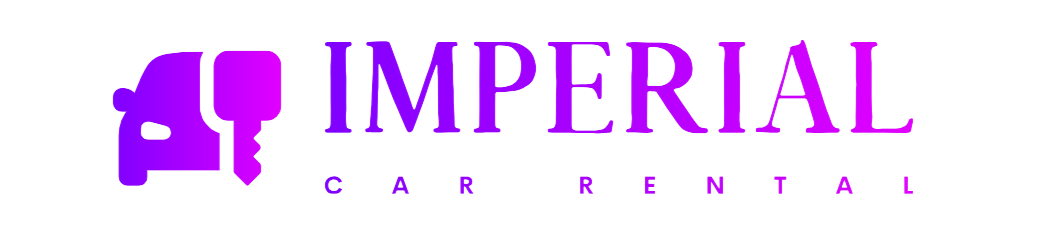
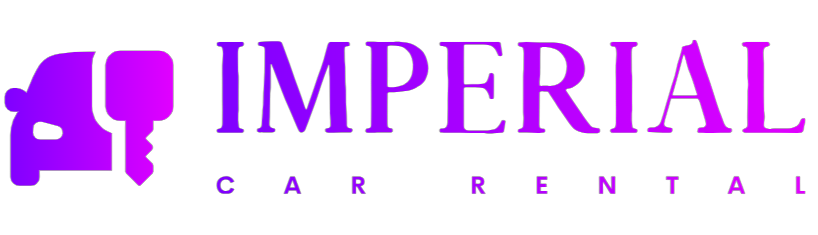
responsive :)

diff --git a/Frontend/css/index.css b/Frontend/css/index.css
@@ -8,43 +8,35 @@ body{
    background-color: #F5F5F5;
    margin: 0;
    font-family: Arial,  sans-serif;
-   box-sizing: border-box;
-
 }
 
 
 .headerContainer{
-    display: flex;
+    display:flex;
     flex-wrap: wrap;
-    justify-content:space-evenly;
     justify-content: space-between;
-   
-    
     align-items: center;
-    background-color: rgb(205, 205, 205);
-    opacity: 0.;
+    padding-left: 1em;
+    padding-right: 1em;
+    
+   
+   
 }
 .logoEmri{
     display: flex;
     flex-direction: row;
     justify-content: flex-start;
-    position: relative;
+  
     
 }
 .headerContainer ul{
     display: flex;
     flex-direction: row;
     justify-content: center;
-    
-
     list-style: none;
-
     font-family: Arial;
     font-size: 13pt;
     color: white;
-
-    position: relative;
-    padding-right: 10em;
     column-gap: 1em;
 
 }
@@ -72,7 +64,7 @@ body{
     justify-content:flex-end;
     color: white;
     position: relative;  
-    padding-right: 1em;
+   
 }
 .backgroundPic {
     width: 100%;
@@ -89,8 +81,9 @@ body{
     flex-wrap: wrap;
     flex-direction: column;
     text-align: center;
-    font-size: 15pt;
+    font-size: 12pt;
     color: rgb(75, 8, 75);
+    padding:1em;
  }
  .sdiqka{
    font-size: 20pt;
@@ -98,8 +91,12 @@ body{
  }
  
  .pjesa2main{
-
-    padding: 3em;
+   display: flex;
+   flex-direction: column;
+   flex-wrap: wrap;
+   padding: 2em;
+   margin: 0;
+  
  
  }
  .paragrafi2 {
@@ -115,8 +112,7 @@ body{
     justify-content:center;
     color: white;
     text-align: center;
-    padding-top: 1em;
-    padding-bottom: 2em;
+    padding: 1em 0;
  }
  .rreshti1{
     display: flex;
@@ -124,36 +120,36 @@ body{
     justify-content: center;
  }
  .part2{
-
-   
-    
-    padding-bottom: 50px;
-    border: 5px solid rgb(255, 255, 255);
-    border-radius: 50px;
-    padding-left: 20px;
-    padding-right: 20px;
-    margin-left: 50px;
-    margin-right: 50px;
-    height: 300px;
+   display: flex;
+   flex-wrap: wrap;
+   justify-content: space-between;
+   justify-content: center;
+    padding-bottom: 3em;
+    border: 0.5em solid blueviolet;
+    border-radius: 3em;
+    padding: 2em 0;
+    height: 50hv;
+    margin: 0;
  }
  .paragrafi3{
     display: flex;
+    flex-wrap: wrap;
     justify-content: space-between;
-    padding-left: 50px;
-    padding-right: 50px;
-    padding-top: 50px;
+    justify-content: center;
+    padding:2em;
+    gap: 1em;
     
 
  }
  .kolona1{
-   
-    width: 350px;
-    border: 3px solid rgb(255, 255, 255) ;
-    border-radius: 20px;
-    padding-left: 10px;
-    padding-right: 10px;
-    padding-bottom: 10px;
-    padding-top: 10px;
+   display: flex;
+    flex-wrap: wrap;
+    justify-content: space-between;
+    justify-content: center;
+    width: 25em;
+    border: 5px solid blueviolet;
+    border-radius: 1em;
+    padding: 2em;
     text-align: center;
  }
  .rreshti11{
@@ -161,14 +157,14 @@ body{
     text-align: center;
  }
  .kolona2{
-   
-    width: 350px;
-    border: 3px solid rgb(255, 255, 255);
-    border-radius: 20px;
-    padding-left: 10px;
-    padding-right: 10px;
-    padding-bottom: 10px;
-    padding-top: 10px;    
+   display: flex;
+    flex-wrap: wrap;
+    justify-content: space-between;
+    justify-content: center;
+    width: 25em;
+    border: 5px solid blueviolet;
+    border-radius: 1em;
+    padding:2em;   
     text-align: center;
 
  }
@@ -177,14 +173,14 @@ body{
     text-align: center;
  }
  .kolona3{
-   
-    width: 350px;
-    border: 3px solid rgb(255, 255, 255) ;
-    border-radius: 20px;
-    padding-left: 10px;
-    padding-right: 10px;
-    padding-bottom: 10px;
-    padding-top: 10px;
+   display: flex;
+    flex-wrap: wrap;
+    justify-content: space-between;
+    justify-content: center;
+    width: 25em;
+    border: 5px solid blueviolet;
+    border-radius: 1em;
+    padding:2em;
     text-align: center;
 
 
@@ -194,11 +190,16 @@ body{
     text-align: center;
  }
  .rreshti44{
-    padding-top: 30px;
+   display: flex;
+    flex-wrap: wrap;
+    justify-content: space-between;
+    justify-content: center;
+    padding:1em;
     text-align: center;
  }
  .footeri{
     display: flex;
+    flex-wrap: wrap;
     justify-content: center;
     height: 5em;
     background-color: rgb(38, 36, 39);

diff --git a/Frontend/index.html b/Frontend/index.html
@@ -10,7 +10,7 @@
     <main>
       <div class="headerContainer">
         <div class="logoEmri">
-          <img src="../Frontend/img/Fotot/imperialiiiiiiiiii-removebg-preview.png" height=70px; width=380px;>
+          <img src="../Frontend/img/Fotot/imperialiiiiiiiiii-removebg-preview.png" height=70hv; width=220em;>
         </div>
 
            <ul>
@@ -29,7 +29,7 @@
             <p class="sdiqka2"><br><em><b>IMPERIAL</b> is a registered car rental company operating in <u>Prishtina.</u> <br>We offer reliable and friendly rental services.</em> </p>
         </div>
  </div>
-     <div class="pjesa2main">
+     
                    <div class="paragrafi2">
                         <p><b><br>We offer cars for rent to suit your traveling plans. We have an extensive fleet, and you won't miss a car for you.</b></p>
                    </div>
@@ -59,9 +59,9 @@
                              </div>
                              
                      </div>
-                     <p class="rreshti44">For more information about us: <a href="./about.html"> <u> click here </u> </a> or you can find our contact information: <a href="./contactUs.html"> here.</a></p>
+                     <p class="rreshti44">For more information about us: <a href="./about.html"> <u> click here </u> </a>, or you can find our contact information: <a href="./contactUs.html"> here.</a></p>
                      
-         </div>
+         
      </div>
     </main>
     <footer>
